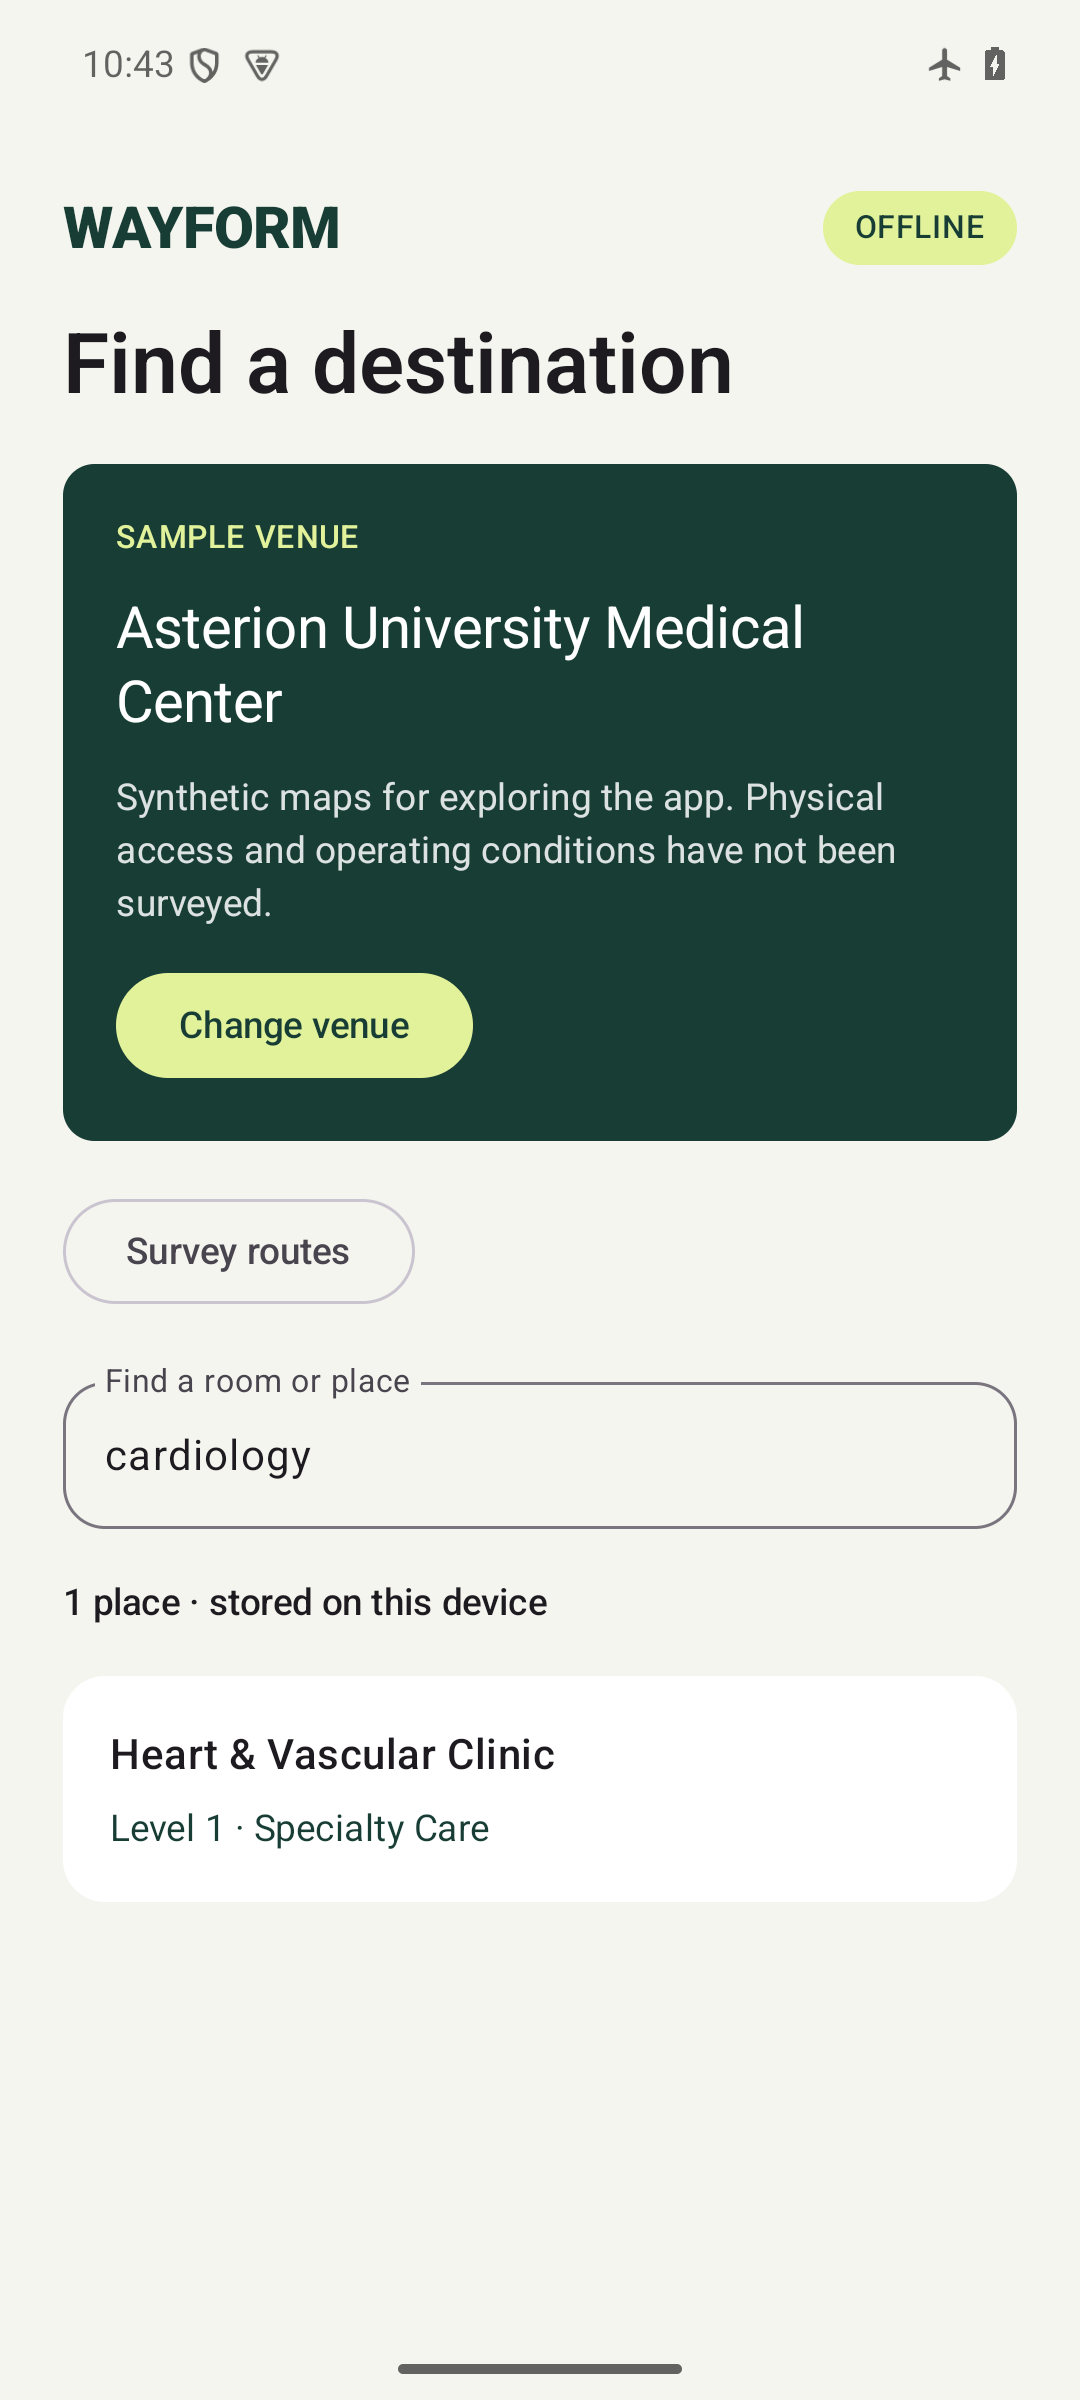
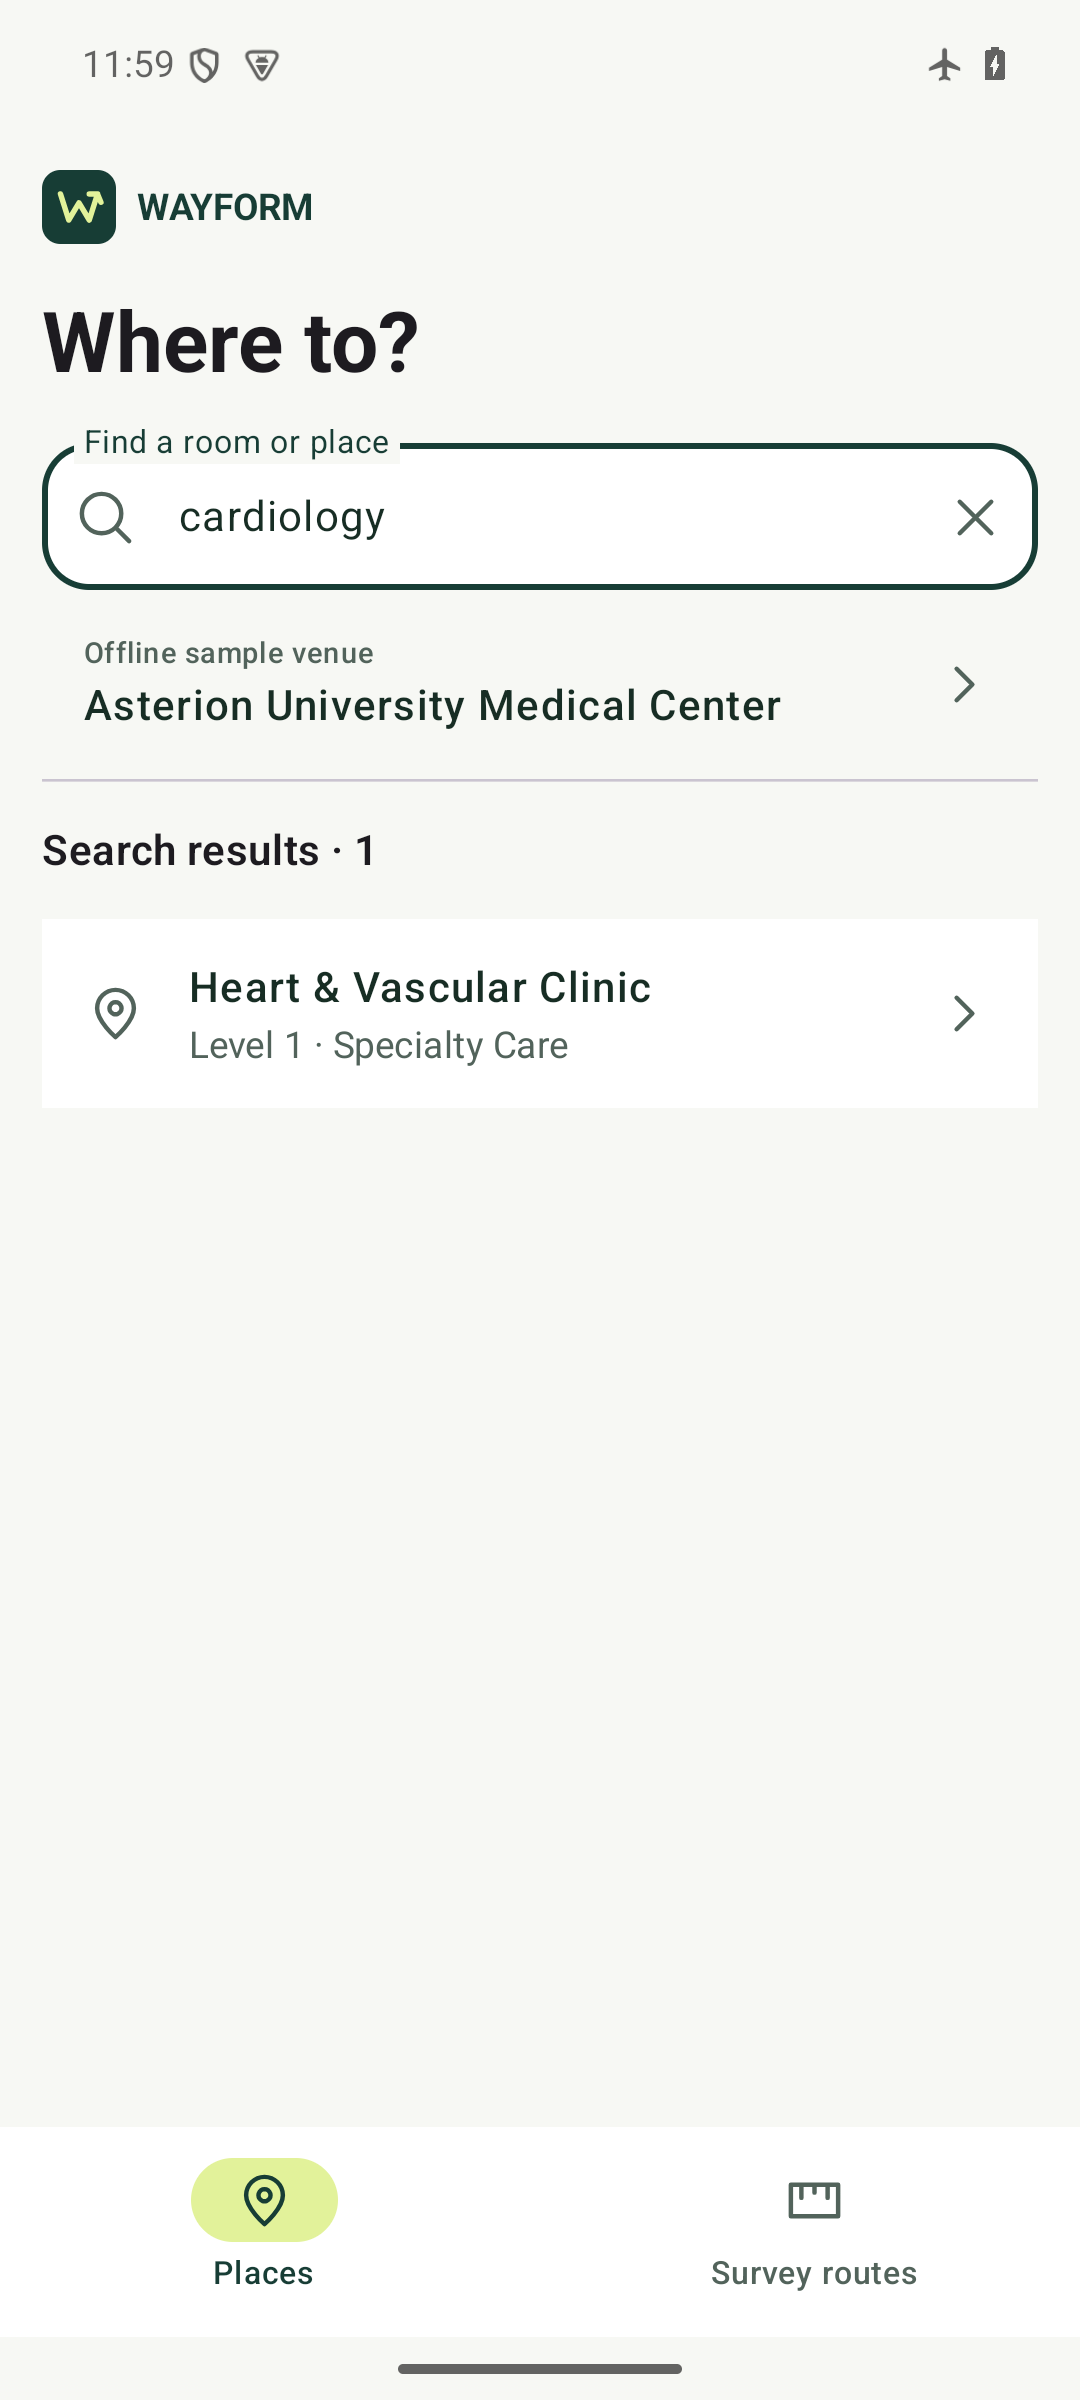
Refresh the Android walkthrough and preview screenshots

diff --git a/docs/android.md b/docs/android.md
@@ -2,7 +2,7 @@
 
 The Android app provides a searchable offline catalog of four synthetic VoiceGIS venues, floor maps, native route previews and manual step-by-step guidance. Starting guidance requires an explicitly confirmed starting place and current operating conditions. The selected venue and authored stairs-exclusion option survive process restarts; active journeys and location confirmations do not. No network permission is requested.
 
-The conditions panel explicitly simulates open paths, closed lifts or a 30-second expiry in the bundled fictional venues. These simulations are not operator reports. Each active journey owns a native policy lease. The host checks wall and monotonic clocks before displaying the initial result, advancing a step and at the lease's timer deadline. Expiry, clock failure, changed conditions, recovery and suspension remove the route. Backgrounding requires a new location confirmation. Movement and arrival are confirmed manually; there is no continuous positioning.
+Start sample journey opens a confirmation with the chosen starting place and conditions. With no existing conditions file, the confirmation offers simulated open paths for ten minutes. The visitor can change the origin, scan a sign or choose different conditions before starting. Route options also exposes the conditions panel, which simulates open paths, closed lifts or a 30-second expiry in the bundled fictional venues. These simulations are not operator reports. Each active journey owns a native policy lease. The host checks wall and monotonic clocks before displaying the initial result, advancing a step and at the lease's timer deadline. Expiry, clock failure, changed conditions, recovery and suspension remove the route. Backgrounding requires a new location confirmation. Movement and arrival are confirmed manually; there is no continuous positioning.
 
 QR scanning uses the optional camera permission only when the scanner is opened. A typed-code fallback uses the same native resolver. Recognition proposes a start; the user must confirm being beside the named sign. Unknown or foreign codes cannot confirm a position. Speech selects an installed English voice that does not require a network connection. Every read-aloud action checks the native lease, and changing steps, expiry, recovery and suspension stop speech. Written directions remain available if no offline voice is installed.
 
@@ -10,7 +10,7 @@ Minimum clear width, maximum slope and surveyed zero-step requirements are saved
 
 **Survey routes** opens a separate offline planning screen. Android's document picker accepts a draft mobility bundle up to 1 MiB. The native loader validates the original bytes, including duplicate property names, before the app offers endpoints. Choose two endpoints, set at least one mobility requirement and select **Check route**. The result names the selected segments, total distance, evidence records and evaluation time, or explains why a path could not be selected. Changing endpoints or requirements clears the result. Importing a replacement clears the previous file even when the new one fails. Leaving this screen releases the imported data.
 
-Imported files use the device UTC clock at the moment of assessment. The built-in fictional clinic replays a fixed instant so the width example stays reproducible. Private imports always use the current time, even if their ID matches the example. The review profile accepts reviewed field-survey records up to 30 days old, honors earlier expiry and allows entrance-transform uncertainty up to 0.25 m. These are prototype settings for file review. The app supplies no trusted policy issuers in this mode. An edge that requires an operational policy cannot qualify without it. The assessment is a dated planning result, separate from live sample-venue guidance.
+Imported files use the device UTC clock at the moment of assessment. The built-in fictional clinic opens at a 90 cm width and replays a fixed instant. Its width chips recalculate immediately and its example profile stays separate from saved visitor requirements. Private imports always use the current time, even if their ID matches the example. The review profile accepts reviewed field-survey records up to 30 days old, honors earlier expiry and allows entrance-transform uncertainty up to 0.25 m. These are prototype settings for file review. The app supplies no trusted policy issuers in this mode. An edge that requires an operational policy cannot qualify without it. The assessment is a dated planning result, separate from live sample-venue guidance.
 
 The conditions panel also accepts a legacy overlay JSON file through Android's document picker. Reads are limited to 64 KiB. Original bytes reach the native parser, which checks duplicates, venue/package binding, closure references and validity before use. Importing or replacing conditions withdraws the current trip first; failed imports cannot restore it. Conditions remain in memory and must be loaded again after process death. The import does not authenticate the operator or establish that the reported conditions match the physical venue.
 
@@ -39,6 +39,6 @@ cd apps/android
 
 Device tests exercise the actual native library, verified catalog and route preview, rejection of corrupt packages, SQLite reopen and failed-write preservation. Sample assets are copied from the pinned compatibility source at build time; their original README and source lock are included in the APK. They are not surveyed real venues. Hash verification detects changed bytes, not publisher authenticity or physical accessibility.
 
-The app was checked on an Android 15 / API 35 x86_64 emulator: all sixteen device tests and two JVM unit tests passed. They cover native package loading, persistence, search, previews, recognized/foreign check-in payloads, lease expiry and clock rollback, closed lifts, location recovery, backgrounding, venue switching, hard requirements and rejected condition imports. Survey tests check direct and alternate paths, missing and expired evidence, strict imports, profile changes and failed replacements. Lint reported no errors. Physical camera recognition and voice audibility still require phone checks. The app limits stored venue packages to 1 MiB to keep database rows within older Android cursor windows.
+The app was checked on an Android 15 / API 35 x86_64 emulator: all eighteen device tests and two JVM unit tests passed. They cover native package loading, persistence, search, previews, recognized/foreign check-in payloads, lease expiry and clock rollback, closed lifts, location recovery, backgrounding, venue switching, hard requirements and rejected condition imports. Survey tests check direct and alternate paths, missing and expired evidence, strict imports, profile changes and failed replacements. Lint reported no errors. Physical camera recognition and voice audibility still require phone checks. The app limits stored venue packages to 1 MiB to keep database rows within older Android cursor windows.
 
 Map coordinates use the venue's plan axes. Pinch and pan change the view; the reset control restores it. Route strokes never exceed the core's checked physical drawing width, and are withheld if its graphic assessment has issues. Endpoint markers are screen-space annotations. Floor changes do not imply a detected user position. The preview has no current operational lease and must not be presented as live guidance.

diff --git a/README.md b/README.md
@@ -2,20 +2,22 @@
 
 WAYFORM is an offline Android wayfinding app for getting from a venue entrance to a specific room. Its survey planner checks which paths have enough measured clearance, slope and step evidence for a visitor’s requirements.
 
-**[Download the Android preview](https://github.com/SanishKumar/wayform/releases/download/v0.1.0-preview.1/wayform-0.1.0-preview.1.apk)** · [Release notes and checksum](https://github.com/SanishKumar/wayform/releases/tag/v0.1.0-preview.1) · [Build from source](docs/android.md)
+**[Download the Android preview](https://github.com/SanishKumar/wayform/releases/download/v0.1.0-preview.2/wayform-0.1.0-preview.2.apk)** · [Release notes and checksum](https://github.com/SanishKumar/wayform/releases/tag/v0.1.0-preview.2) · [Build from source](docs/android.md)
 
 The public preview runs in airplane mode and uses fictional venues. You can also open a private survey file on the device for a dated route assessment. **Real-world navigation still needs a surveyed venue and a supervised field trial.**
 
-| Find a destination | Preview a floor | Check a width requirement |
-| --- | --- | --- |
-| <img src="docs/images/destination-search.png" width="245" alt="Searching for cardiology finds Heart and Vascular Clinic in the offline venue catalog"> | <img src="docs/images/floor-preview.png" width="245" alt="Ground-floor plan with a route line and a 71 metre, nine-instruction preview"> | <img src="docs/images/survey-route.png" width="245" alt="A 90 centimetre width requirement selects the 18 metre side-lobby route in the fictional clinic"> |
+| Search | Preview the route | Follow directions | Compare widths |
+| --- | --- | --- | --- |
+| <img src="docs/images/destination-search.png" width="205" alt="Searching for cardiology finds Heart and Vascular Clinic"> | <img src="docs/images/floor-preview.png" width="205" alt="Ground-floor plan showing the start and where to change floors"> | <img src="docs/images/journey-step.png" width="205" alt="The current instruction names Central Concourse and Advanced Imaging above the map"> | <img src="docs/images/survey-route.png" width="205" alt="The 90 cm choice selects the 18 metre side-lobby route"> |
 
 ## Try it in three minutes
 
-Install the preview APK on an Android 8.0 or newer arm64 phone or x86_64 emulator. You can open the downloaded APK on the device, or use `adb install -r wayform-0.1.0-preview.1.apk`. The preview installs as `app.wayform.preview`. Its bundled examples need no account or network.
+Install the preview APK on an Android 8.0 or newer arm64 phone or x86_64 emulator. You can open the downloaded APK on the device, or use `adb install -r wayform-0.1.0-preview.2.apk`. The preview installs as `app.wayform.preview`. Its bundled examples need no account or network.
 
-1. **Walk through a sample journey.** In Asterion University Medical Center, search for **cardiology** and open **Heart & Vascular Clinic**. Look at the floor plan, open **Venue conditions → All modeled paths open**, confirm **Civic Plaza Entrance** as the starting place, then tap **Start sample journey**. Advance through the nine instructions or use **I'm not here** to exercise recovery. Keep the optional hard mobility requirements blank for this legacy sample.
-2. **See a measurement change the route.** Return to places and choose **Survey routes → Try the clinic example**. Under **Mobility requirements**, set only the minimum clear width. Save and tap **Check route** after each change.
+If you installed preview 1 from GitHub, uninstall it before installing preview 2. The previews use different development signing certificates. Uninstalling removes saved preferences.
+
+1. **Walk through a sample journey.** In Asterion University Medical Center, search for **cardiology** and open **Heart & Vascular Clinic**. The preview shows the starting place, floor plan and route length. Tap **Start sample journey**, check that the starting place is **Civic Plaza Entrance**, then select **I'm here · Start**. The confirmation describes the simulated conditions. Use **Route options** to change conditions or mobility requirements. Advance through the nine instructions or use **I'm not here** to exercise recovery. Keep the optional hard mobility requirements blank for this legacy sample.
+2. **See a measurement change the route.** Return to places and choose **Survey routes → Try the clinic example**. The example opens with a 90 cm width. Tap **75 cm**, **90 cm** or **120 cm** to recalculate immediately. **Edit example requirements** also lets you try zero steps. These example settings are separate from your saved visitor profile.
 
    | Minimum clear width | Expected result from Plaza entrance to Reception |
    | --- | --- |
